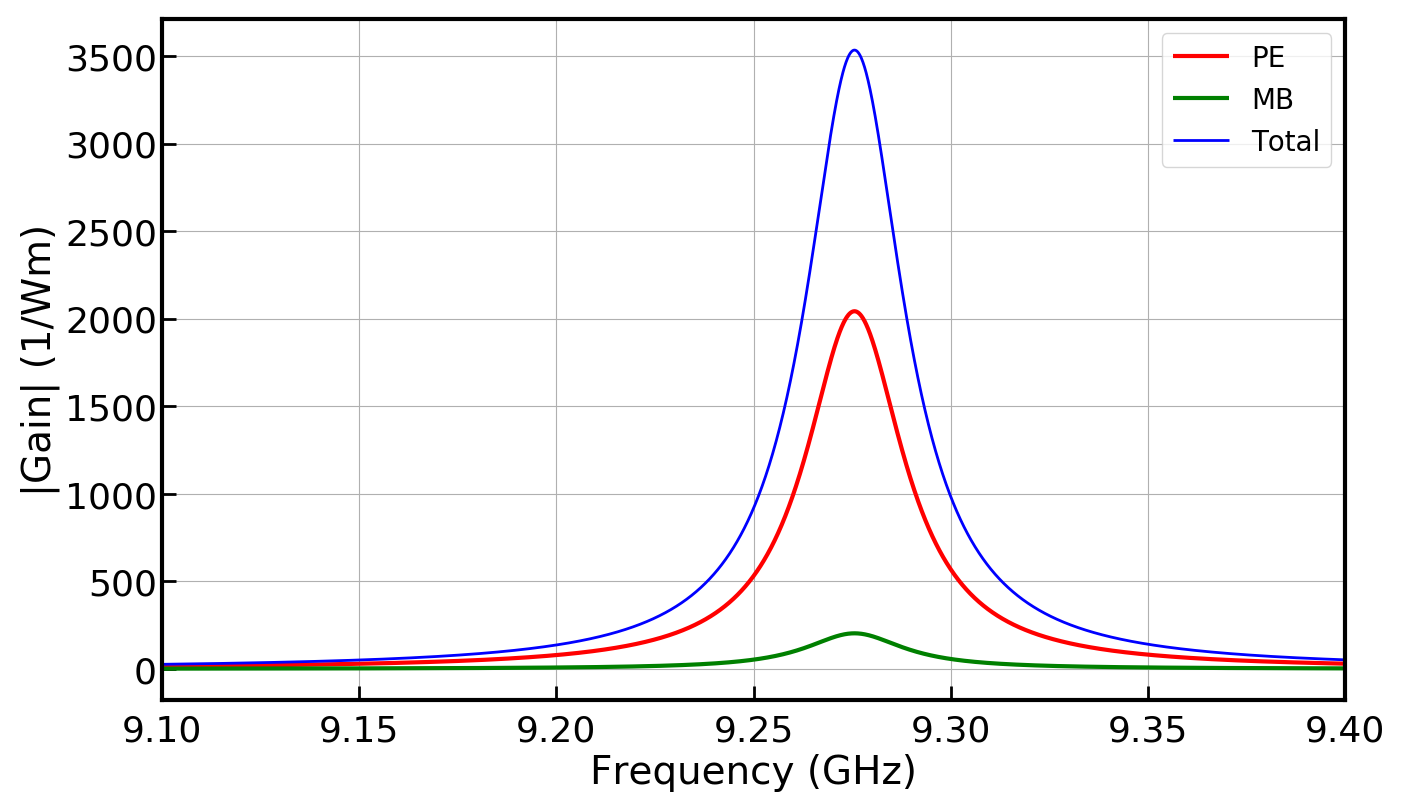
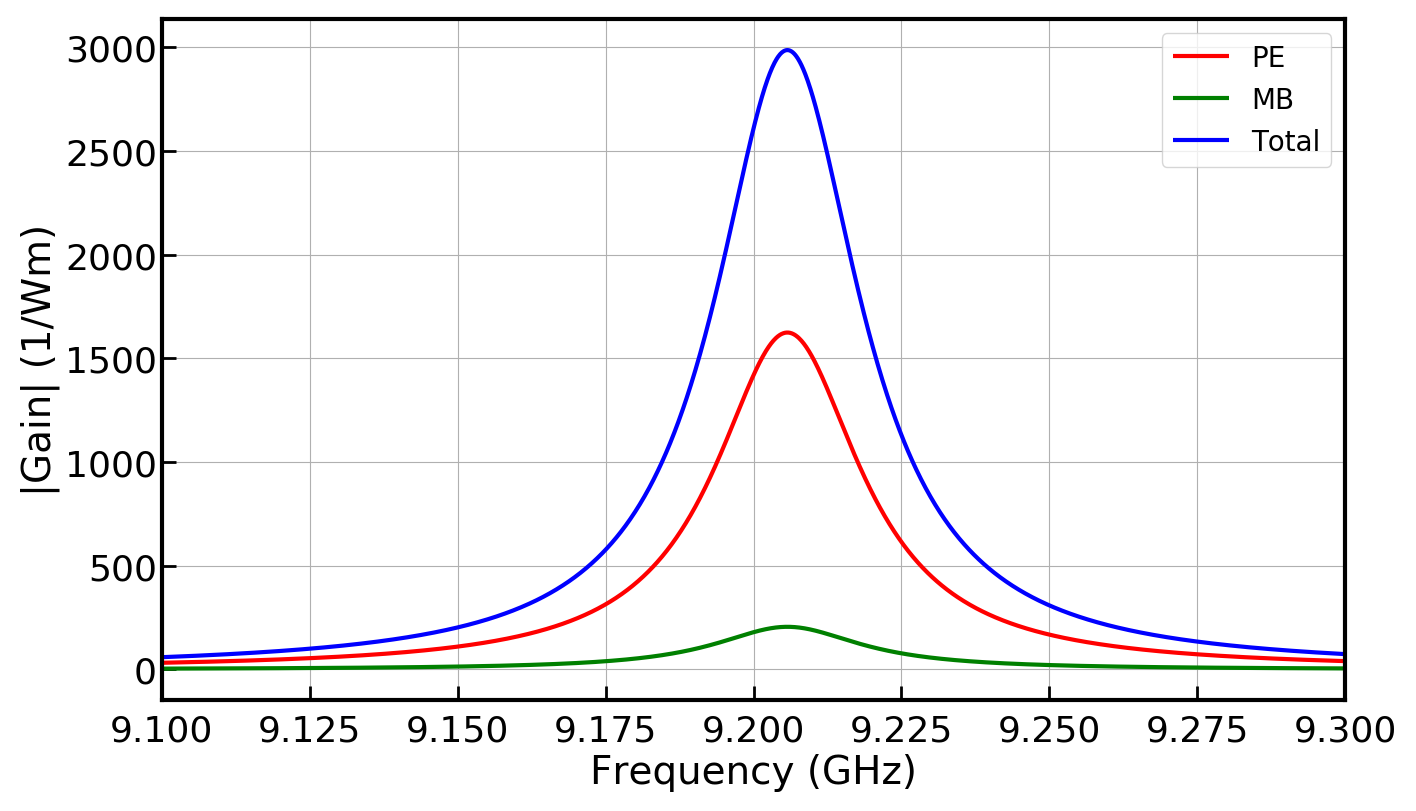
Adjusted width of lit_example 04-no_pillar to make up for trapezoid. Made all lit_examples save spectra as png for updating of online docs.

diff --git a/lit_examples/simo-lit_08-Kittlaus-NatComm_2017.py b/lit_examples/simo-lit_08-Kittlaus-NatComm_2017.py
@@ -70,44 +70,6 @@ AC_ival = 'All'
 Si_110 = copy.deepcopy(materials.Si_2016_Smith)
 Si_110.rotate_axis(np.pi/4,'z-axis', save_rotated_tensors=True)
 
-
-print("c_11", Si_110.c_11)
-print("c_12", Si_110.c_12)
-print("c_13", Si_110.c_13)
-print("c_14", Si_110.c_14)
-print("c_15", Si_110.c_15)
-print("c_16", Si_110.c_16)
-print("c_21", Si_110.c_21)
-print("c_22", Si_110.c_22)
-print("c_23", Si_110.c_23)
-print("c_24", Si_110.c_24)
-print("c_25", Si_110.c_25)
-print("c_26", Si_110.c_26)
-print("c_31", Si_110.c_31)
-print("c_32", Si_110.c_32)
-print("c_33", Si_110.c_33)
-print("c_34", Si_110.c_34)
-print("c_35", Si_110.c_35)
-print("c_36", Si_110.c_36)
-print("c_41", Si_110.c_41)
-print("c_42", Si_110.c_42)
-print("c_43", Si_110.c_43)
-print("c_44", Si_110.c_44)
-print("c_45", Si_110.c_45)
-print("c_46", Si_110.c_46)
-print("c_51", Si_110.c_51)
-print("c_52", Si_110.c_52)
-print("c_53", Si_110.c_53)
-print("c_54", Si_110.c_54)
-print("c_55", Si_110.c_55)
-print("c_56", Si_110.c_56)
-print("c_61", Si_110.c_61)
-print("c_62", Si_110.c_62)
-print("c_63", Si_110.c_63)
-print("c_64", Si_110.c_64)
-print("c_65", Si_110.c_65)
-print("c_66", Si_110.c_66)
-
 prefix_str = 'lit_08-'
 
 # Use specified parameters to create a waveguide object.
@@ -135,9 +97,9 @@ sim_EM_Stokes = mode_calcs.fwd_Stokes_modes(sim_EM_pump)
 # npzfile = np.load('wguide_data2.npz')
 # sim_EM_Stokes = npzfile['sim_EM_Stokes'].tolist()
 
-# plotting.plt_mode_fields(sim_EM_pump, xlim_min=0.35, xlim_max=0.35, ivals=[0,1], 
-#                          ylim_min=0.3, ylim_max=0.3, EM_AC='EM_E', num_ticks=3,
-#                          prefix_str=prefix_str, pdf_png='png')
+plotting.plt_mode_fields(sim_EM_pump, xlim_min=0.35, xlim_max=0.35, ivals=[0,1], 
+                         ylim_min=0.3, ylim_max=0.3, EM_AC='EM_E', num_ticks=3,
+                         prefix_str=prefix_str, pdf_png='png')
 
 # Print the wavevectors of EM modes.
 print('k_z of EM modes \n', np.round(np.real(sim_EM_pump.Eig_values), 4))
@@ -160,8 +122,8 @@ sim_AC = wguide.calc_AC_modes(num_modes_AC, k_AC, EM_sim=sim_EM_pump, shift_Hz=s
 # Print the frequencies of AC modes.
 print('Freq of AC modes (GHz) \n', np.round(np.real(sim_AC.Eig_values)*1e-9, 4))
 
-# plotting.plt_mode_fields(sim_AC, EM_AC='AC', prefix_str=prefix_str,
-#      num_ticks=3, xlim_min=0.1, xlim_max=0.1, pdf_png='png')
+plotting.plt_mode_fields(sim_AC, EM_AC='AC', prefix_str=prefix_str,
+     num_ticks=3, xlim_min=0.1, xlim_max=0.1, pdf_png='png')
 
 set_q_factor = 460.
 
@@ -186,7 +148,7 @@ freq_min = 0.5  # GHz
 freq_max = 9.5  # GHz
 plotting.gain_spectra(sim_AC, SBS_gain, SBS_gain_PE, SBS_gain_MB, linewidth_Hz, k_AC,
     EM_ival_pump, EM_ival_Stokes, AC_ival, freq_min=freq_min, freq_max=freq_max,
-    prefix_str=prefix_str, suffix_str='', pdf_png='pdf')
+    prefix_str=prefix_str, suffix_str='', pdf_png='png')
 
 end = time.time()
 print("\n Simulation time (sec.)", (end - start))

diff --git a/lit_examples/simo-lit_04-no_pillar-Van_Laer-NP_2015.py b/lit_examples/simo-lit_04-no_pillar-Van_Laer-NP_2015.py
@@ -31,7 +31,7 @@ start = time.time()
 wl_nm = 1550
 unitcell_x = 5*wl_nm
 unitcell_y = 0.5*unitcell_x
-inc_a_x = 450
+inc_a_x = 485
 inc_a_y = 230
 inc_shape = 'rectangular'
 
@@ -68,9 +68,9 @@ sim_EM_Stokes = mode_calcs.fwd_Stokes_modes(sim_EM_pump)
 # npzfile = np.load('wguide_data2.npz')
 # sim_EM_Stokes = npzfile['sim_EM_Stokes'].tolist()
 
-# plotting.plt_mode_fields(sim_EM_pump, xlim_min=0.45, xlim_max=0.45, ivals=[0], 
-#                          ylim_min=0.45, ylim_max=0.45, EM_AC='EM_E', 
-#                          prefix_str=prefix_str, pdf_png='png')
+plotting.plt_mode_fields(sim_EM_pump, xlim_min=0.45, xlim_max=0.45, ivals=[0], 
+                         ylim_min=0.45, ylim_max=0.45, EM_AC='EM_E', 
+                         prefix_str=prefix_str, pdf_png='png')
 
 # Print the wavevectors of EM modes.
 print('k_z of EM modes \n', np.round(np.real(sim_EM_pump.Eig_values), 4))
@@ -91,10 +91,9 @@ sim_AC = wguide.calc_AC_modes(num_modes_AC, k_AC, EM_sim=sim_EM_pump)
 print('Freq of AC modes (GHz) \n', np.round((sim_AC.Eig_values)*1e-9, 4))
 print('Freq of AC modes (GHz) \n', np.round(np.real(sim_AC.Eig_values)*1e-9, 4))
 
-# plotting.plt_mode_fields(sim_AC, EM_AC='AC', prefix_str=prefix_str, pdf_png='png')
+plotting.plt_mode_fields(sim_AC, EM_AC='AC', prefix_str=prefix_str, pdf_png='png')
 
-# set_q_factor = 306
-set_q_factor = 249
+set_q_factor = 306
 
 # Calculate interaction integrals and SBS gain for PE and MB effects combined, 
 # as well as just for PE, and just for MB.
@@ -113,11 +112,11 @@ print("SBS_gain MB contribution \n", masked_MB)
 print("SBS_gain total \n", masked)
 
 # Construct the SBS gain spectrum, built from Lorentzian peaks of the individual modes.
-freq_min = 8#9.1 # GHz
-freq_max = 10#9.4 # GHz
+freq_min = 9.1 # GHz
+freq_max = 9.3 # GHz
 plotting.gain_spectra(sim_AC, SBS_gain, SBS_gain_PE, SBS_gain_MB, linewidth_Hz, k_AC,
     EM_ival_pump, EM_ival_Stokes, AC_ival, freq_min=freq_min, freq_max=freq_max,
-    prefix_str=prefix_str, suffix_str='', pdf_png='pdf')
+    prefix_str=prefix_str, suffix_str='', pdf_png='png')
 
 end = time.time()
 print("\n Simulation time (sec.)", (end - start))

diff --git a/lit_examples/simo-lit_01-Laude-AIPAdv_2013-silica.py b/lit_examples/simo-lit_01-Laude-AIPAdv_2013-silica.py
@@ -91,14 +91,14 @@ freq_min = 4  # GHz
 freq_max = 13  # GHz
 plotting.gain_spectra(sim_AC, SBS_gain, SBS_gain_PE, SBS_gain_MB, linewidth_Hz, k_AC,
     EM_ival_pump, EM_ival_Stokes, AC_ival, freq_min=freq_min, freq_max=freq_max,
-    semilogy=True, prefix_str=prefix_str, pdf_png='pdf')
+    semilogy=True, prefix_str=prefix_str, pdf_png='png')
 
 # Construct the SBS gain spectrum, built from Lorentzian peaks of the individual modes.
 freq_min = 9.5  # GHz
 freq_max = 10  # GHz
 plotting.gain_spectra(sim_AC, SBS_gain, SBS_gain_PE, SBS_gain_MB, linewidth_Hz, k_AC,
     EM_ival_pump, EM_ival_Stokes, AC_ival, freq_min=freq_min, freq_max=freq_max,
-    prefix_str=prefix_str, suffix_str='_zoom', pdf_png='pdf')
+    prefix_str=prefix_str, suffix_str='_zoom', pdf_png='png')
 
 end = time.time()
 print("\n Simulation time (sec.)", (end - start))

diff --git a/lit_examples/simo-lit_04-pillar-Van_Laer-NP_2015.py b/lit_examples/simo-lit_04-pillar-Van_Laer-NP_2015.py
@@ -98,7 +98,7 @@ freq_min = np.real(sim_AC.Eig_values[0])*1e-9 - 2  # GHz
 freq_max = np.real(sim_AC.Eig_values[-1])*1e-9 + 2  # GHz
 plotting.gain_spectra(sim_AC, SBS_gain, SBS_gain_PE, SBS_gain_MB, linewidth_Hz, k_AC,
     EM_ival_pump, EM_ival_Stokes, AC_ival, freq_min=freq_min, freq_max=freq_max,
-    prefix_str=prefix_str)
+    prefix_str=prefix_str, pdf_png='png')
 
 end = time.time()
 print("\n Simulation time (sec.)", (end - start))

diff --git a/lit_examples/simo-lit_07-Kittlaus-NatPhot_2016.py b/lit_examples/simo-lit_07-Kittlaus-NatPhot_2016.py
@@ -127,7 +127,7 @@ freq_min = 4.2  # GHz
 freq_max = 4.3  # GHz
 plotting.gain_spectra(sim_AC, SBS_gain, SBS_gain_PE, SBS_gain_MB, linewidth_Hz, k_AC,
     EM_ival_pump, EM_ival_Stokes, AC_ival, freq_min=freq_min, freq_max=freq_max,
-    prefix_str=prefix_str, suffix_str='', pdf_png='pdf')
+    prefix_str=prefix_str, suffix_str='', pdf_png='png')
 
 end = time.time()
 print("\n Simulation time (sec.)", (end - start))

diff --git a/lit_examples/simo-lit_05-Van_Laer-NJP_2015.py b/lit_examples/simo-lit_05-Van_Laer-NJP_2015.py
@@ -114,7 +114,7 @@ freq_min = 9.1 # GHz
 freq_max = 9.4 # GHz
 plotting.gain_spectra(sim_AC, SBS_gain, SBS_gain_PE, SBS_gain_MB, linewidth_Hz, k_AC,
     EM_ival_pump, EM_ival_Stokes, AC_ival, freq_min=freq_min, freq_max=freq_max,
-    prefix_str=prefix_str, suffix_str='', pdf_png='pdf')
+    prefix_str=prefix_str, suffix_str='', pdf_png='png')
 
 end = time.time()
 print("\n Simulation time (sec.)", (end - start))

diff --git a/lit_examples/simo-lit_06_2-Florez-NatComm_2016-d1160nm.py b/lit_examples/simo-lit_06_2-Florez-NatComm_2016-d1160nm.py
@@ -96,7 +96,7 @@ freq_min = 5.2  # GHz
 freq_max = 5.7  # GHz
 plotting.gain_spectra(sim_AC, SBS_gain, SBS_gain_PE, SBS_gain_MB, linewidth_Hz, k_AC,
     EM_ival_pump, EM_ival_Stokes, AC_ival, freq_min=freq_min, freq_max=freq_max,
-    semilogy=True, prefix_str=prefix_str, pdf_png='pdf')
+    semilogy=True, prefix_str=prefix_str, pdf_png='png')
 
 end = time.time()
 print("\n Simulation time (sec.)", (end - start))

diff --git a/lit_examples/simo-lit_02-Laude-AIPAdv_2013-silicon.py b/lit_examples/simo-lit_02-Laude-AIPAdv_2013-silicon.py
@@ -92,7 +92,7 @@ freq_min = 20  # GHz
 freq_max = 45  # GHz
 plotting.gain_spectra(sim_AC, SBS_gain, SBS_gain_PE, SBS_gain_MB, linewidth_Hz, k_AC,
     EM_ival_pump, EM_ival_Stokes, AC_ival, freq_min=freq_min, freq_max=freq_max,
-    semilogy=True, prefix_str=prefix_str, pdf_png='pdf')
+    semilogy=True, prefix_str=prefix_str, pdf_png='png')
 
 end = time.time()
 print("\n Simulation time (sec.)", (end - start))

diff --git a/lit_examples/simo-lit_09-Morrison-Optica_2017.py b/lit_examples/simo-lit_09-Morrison-Optica_2017.py
@@ -139,7 +139,7 @@ freq_min = 7.2  # GHz
 freq_max = 8.1  # GHz
 plotting.gain_spectra(sim_AC, SBS_gain, SBS_gain_PE, SBS_gain_MB, linewidth_Hz, k_AC,
     EM_ival_pump, EM_ival_Stokes, AC_ival, freq_min=freq_min, freq_max=freq_max,
-    prefix_str=prefix_str, pdf_png='pdf')
+    prefix_str=prefix_str, pdf_png='png')
 
 end = time.time()
 print("\n Simulation time (sec.)", (end - start))

diff --git a/lit_examples/simo-lit_06_1-Florez-NatComm_2016-d550nm.py b/lit_examples/simo-lit_06_1-Florez-NatComm_2016-d550nm.py
@@ -89,7 +89,7 @@ freq_min = 5  # GHz
 freq_max = 12  # GHz
 plotting.gain_spectra(sim_AC, SBS_gain, SBS_gain_PE, SBS_gain_MB, linewidth_Hz, k_AC,
     EM_ival_pump, EM_ival_Stokes, AC_ival, freq_min=freq_min, freq_max=freq_max,
-    prefix_str=prefix_str, pdf_png='pdf')
+    prefix_str=prefix_str, pdf_png='png')
 
 end = time.time()
 print("\n Simulation time (sec.)", (end - start))
